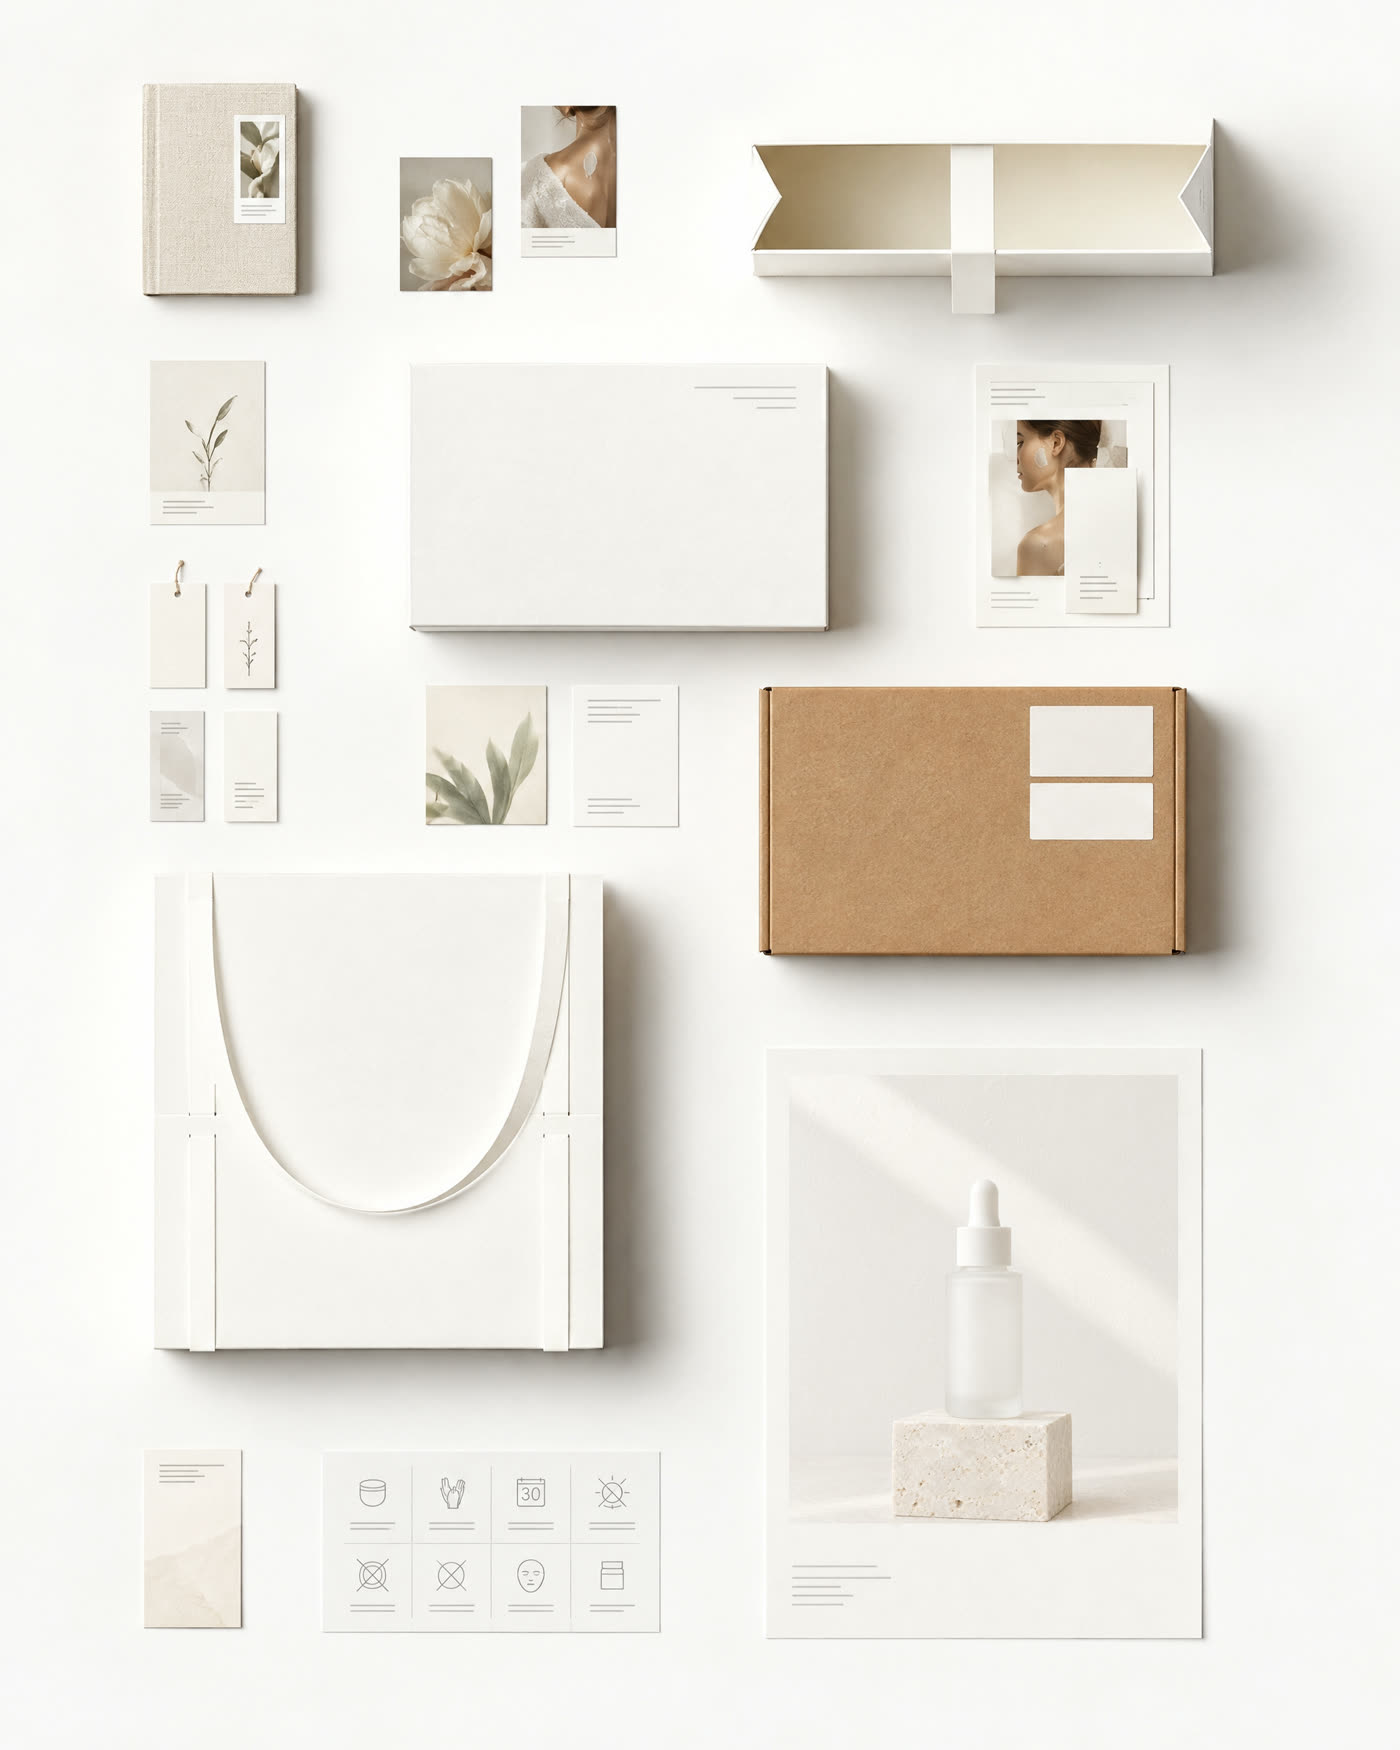
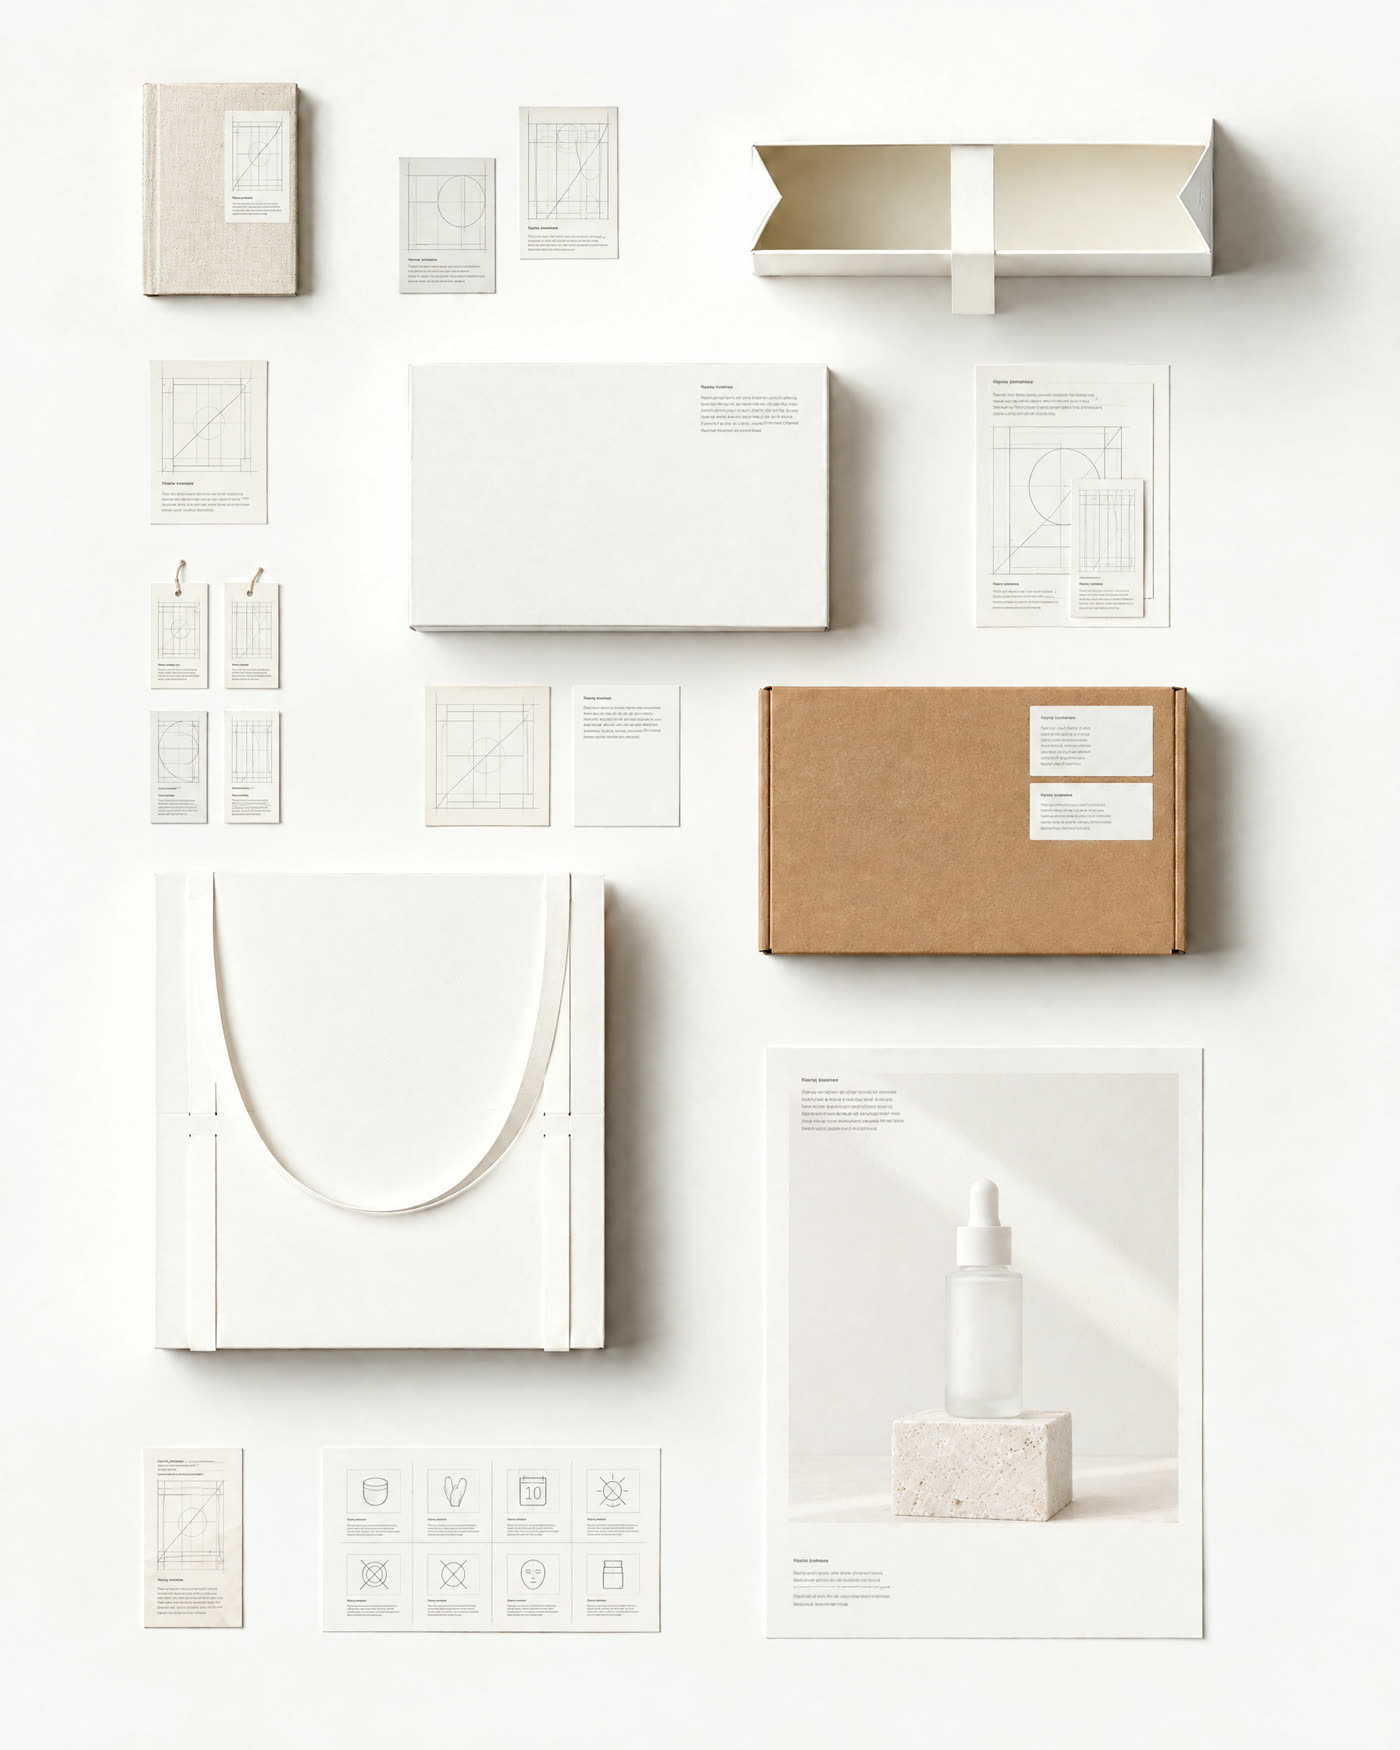
Brand Workshop: identity picture shows layout grids and type instead of leaves

diff --git a/services/brand-workshop/index.html b/services/brand-workshop/index.html
@@ -145,7 +145,7 @@ section { margin-top: 88px; }
             <dl><dt>What we do</dt><dd>Skin feel, scent, texture, actives and cost target — then samples.</dd><dt>What you get</dt><dd>Approved samples and a product spec.</dd></dl></div>
         </article>
         <article class="mod">
-          <figure><img src="/assets/img/brand-workshop/identity.jpg" width="1400" height="1750" loading="lazy" alt="An identity and packaging system laid flat: boxes, mailer, bag, tags, cards and a poster"></figure>
+          <figure><img src="/assets/img/brand-workshop/identity.jpg" width="1400" height="1750" loading="lazy" alt="An identity and packaging system laid flat: boxes, mailer, bag, tags and cards printed with layout grids and type, and a poster"></figure>
           <div class="txt"><span class="n">03</span><h3>Brand design</h3>
             <dl><dt>What we do</dt><dd>Naming, story, logo, colour and type.</dd><dt>What you get</dt><dd>A brand identity and design files.</dd></dl></div>
         </article>
